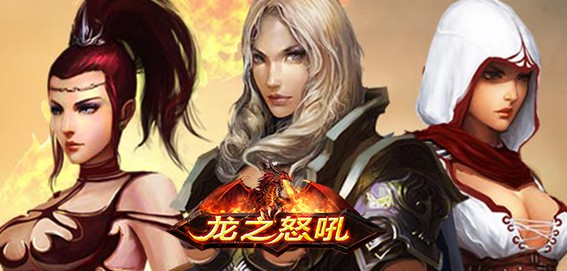
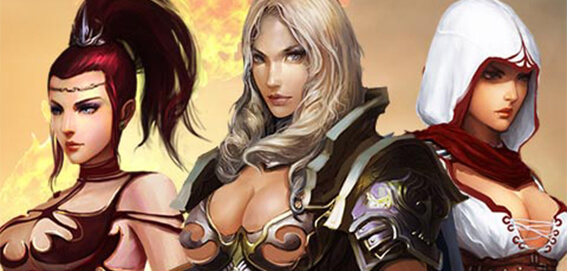
增加友情链接,手机游戏龙之怒吼图片更替,手机游戏《绝地逃亡》位置移到最下方

Changed region(s): [[0.2998, 0.5904, 0.6896, 0.9446]]

diff --git a/xtone-vanggame-front/WebContent/porducts-sjyx.html b/xtone-vanggame-front/WebContent/porducts-sjyx.html
@@ -183,22 +183,7 @@ height: 116px;
 <!-- 					<a href="http://smzg.xtonegame.com/" target="_blank" class="game-btn-web"><img src="images/products2/guanwang_1.png" -->
 <!-- 						class=""></a> -->
 <!-- 					</div> -->
-<!-- 				</div> -->
-
-				<div class="col-sm-12 col-sm-12 col-xs-12 nopadding game-top">
-					<div class="sjyx1">
-						<img src="images/products/jdtw1.png" class="bsimg">
-					</div>
-					<div class="sjyx2">
-						<img src="images/products/jdtw2.jpg" class="bsimg">
-					</div>
-					<div class="sjyx3">
-						<a href="javascript:alert('敬请期待！');"><img src="images/products/jdtw3.png" class="bsimg"></a>
-					</div>
-					<div class="sjyx3">
-						<a href="javascript:alert('敬请期待！');"><img src="images/products/jdtw4.png" class="bsimg"></a>
-					</div>
-				</div>
+<!-- 				</div> -->				
 				
 				<div class="col-sm-12 col-sm-12 col-xs-12 nopadding game-top">
 					<div class="sjyx1">
@@ -239,7 +224,7 @@ height: 116px;
 						<a href="javascript:alert('敬请期待！');"><img src="images/products/lznh3.png" class="bsimg"></a>
 					</div>
 					<div class="sjyx3">
-						<a href="javascript:alert('敬请期待！');"><img src="images/products/lznh4.png" class="bsimg"></a>
+						<a href="http://lznh.cooguo.com/"><img src="images/products/lznh4.png" class="bsimg"></a>
 					</div>
 				</div>
 				<div class="col-sm-12 col-sm-12 col-xs-12 nopadding game-top">
@@ -324,6 +309,20 @@ height: 116px;
 					</div>
 					<div class="sjyx3">
 						<a href="http://mmd.xtonegame.com/" target="_blank"><img src="images/products/dsmmd4.png" class="bsimg"></a>
+					</div>
+				</div>
+				<div class="col-sm-12 col-sm-12 col-xs-12 nopadding game-top">
+					<div class="sjyx1">
+						<img src="images/products/jdtw1.png" class="bsimg">
+					</div>
+					<div class="sjyx2">
+						<img src="images/products/jdtw2.jpg" class="bsimg">
+					</div>
+					<div class="sjyx3">
+						<a href="javascript:alert('敬请期待！');"><img src="images/products/jdtw3.png" class="bsimg"></a>
+					</div>
+					<div class="sjyx3">
+						<a href="http://jdtw.xtonegame.com/"><img src="images/products/jdtw4.png" class="bsimg"></a>
 					</div>
 				</div>
 				<div class="col-md-12 col-sm-12 col-xs-12 bottom-hieght"></div>
